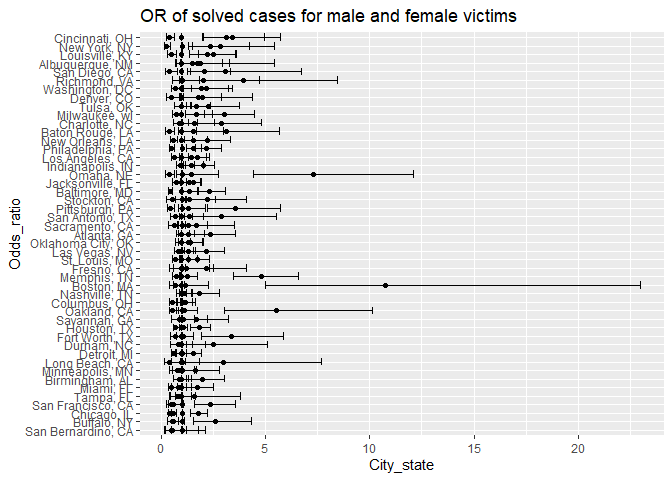
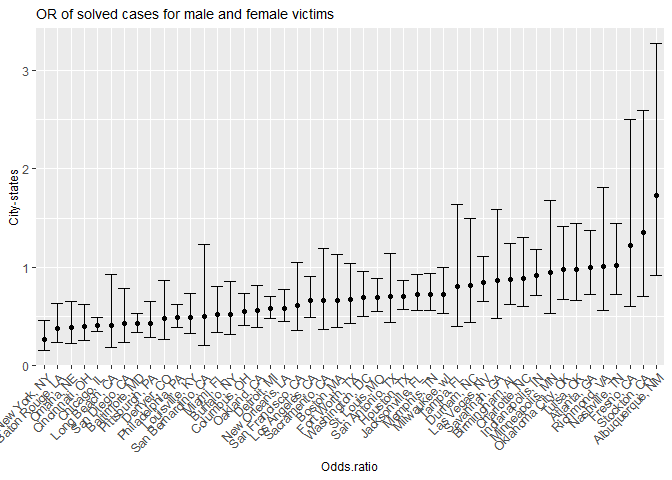
done for all

diff --git a/p8105_hw6_zx2425.md b/p8105_hw6_zx2425.md
@@ -156,7 +156,6 @@ all_city_model =
   mutate(
     logmodel = map(data, ~glm(solve_sit~victim_age + victim_race + victim_sex, data = ., family = binomial())),
  result = map(.x=logmodel, ~broom::tidy(.x,conf.int = TRUE))) %>% 
-  
   select(-data,-logmodel)%>% 
   unnest(result)%>% 
   mutate(
@@ -164,7 +163,8 @@ all_city_model =
     conf_low=exp(estimate+qnorm(0.05)*std.error), 
     conf_high=exp(estimate+qnorm(0.95)*std.error)
     ) %>%
-  select(city_state,term, log_OR = estimate, OR, p.value, conf_low, conf_high) 
+   filter(term=="victim_sexMale") %>% 
+  select(city_state, OR,conf_low, conf_high) 
 ```
 
 REQUIREMENT:Create a plot that shows the estimated ORs and CIs for each
@@ -172,22 +172,29 @@ city. Organize cities according to estimated OR, and comment on the plot
 
 ``` r
 all_city_model%>%
-  mutate(
+  mutate( 
     city_state = fct_reorder(city_state, OR)
   ) %>%
-  ggplot(aes(x = OR, y = city_state)) +
+  ggplot(aes(x = city_state, y = OR )) +
   geom_point() +
-  geom_errorbar(aes(xmin = conf_low, xmax = conf_high)) +
+  geom_errorbar(aes(ymin = conf_low, ymax = conf_high)) +
   labs(title = "OR of solved cases for male and female victims",
-       x="City_state",
-       y="Odds_ratio"
-         )
+       x="Odds.ratio",
+       y="City-states"
+         )+
+  theme(
+    title=element_text(size=9),
+    axis.text.x.bottom = element_text(angle=45, hjust=1)
+  )
 ```
 
-![](p8105_hw6_zx2425_files/figure-gfm/unnamed-chunk-9-1.png)<!-- --> ???
-\#problem3 Load and clean the data for regression analysis (i.e. convert
-numeric to factor where appropriate, check for missing data, etc.). \##
-3.0 reclaim data
+![](p8105_hw6_zx2425_files/figure-gfm/unnamed-chunk-9-1.png)<!-- -->
+
+Execute the function on the data of each city, and calculate the
+corresponding OR and its CI. Then we sort and draw the image according
+to the value of OR \#problem3 Load and clean the data for regression
+analysis (i.e. convert numeric to factor where appropriate, check for
+missing data, etc.). \## 3.0 reclaim data
 
 ``` r
 data_bw <- read.csv("./birthweight.csv")%>% 
@@ -217,6 +224,7 @@ density_bwt
     ## `stat_bin()` using `bins = 30`. Pick better value with `binwidth`.
 
 ![](p8105_hw6_zx2425_files/figure-gfm/unnamed-chunk-11-1.png)<!-- -->
+
 From the plot, we can roughly assume that the distribution of bwt
 follows normal distribution.
 
@@ -236,6 +244,7 @@ density_bhead+density_blength
     ## `stat_bin()` using `bins = 30`. Pick better value with `binwidth`.
 
 ![](p8105_hw6_zx2425_files/figure-gfm/unnamed-chunk-12-1.png)<!-- -->
+
 From the density distribution plot, we can see that the distribution of
 bhead variable and blength variable is normal. Thus, we can directly put
 them into our linear regression model.
@@ -249,6 +258,7 @@ plot(data_bw1)
 ```
 
 ![](p8105_hw6_zx2425_files/figure-gfm/unnamed-chunk-13-1.png)<!-- -->
+
 From the plot, we can be sure that there is relationship between bwt and
 blength and the same for bhead. So next step, we can use linear
 regression model to get the further development,
@@ -325,6 +335,7 @@ data_bw %>%
 ```
 
 ![](p8105_hw6_zx2425_files/figure-gfm/unnamed-chunk-15-1.png)<!-- -->
+
 First, we verified the assumption that the variables basically satisfy
 the normal distribution. Next, we drew a scatter diagram of the
 variables in pairs to observe whether the two independent variables have
@@ -498,6 +509,8 @@ cv_df %>%
 ```
 
 ![](p8105_hw6_zx2425_files/figure-gfm/unnamed-chunk-17-1.png)<!-- -->
+
 From the violin box plot, we can easily see that model_bl and model_all
-have smaller rmse than model_lg. This shows that model_bl, model_all are
-better than model model_lg.
+have smaller rmse than model_lg. And model_bl has the almost best
+performance in all ways. This might because our model_bl and model_lg
+have more ” useful” varaibles for prediction.
